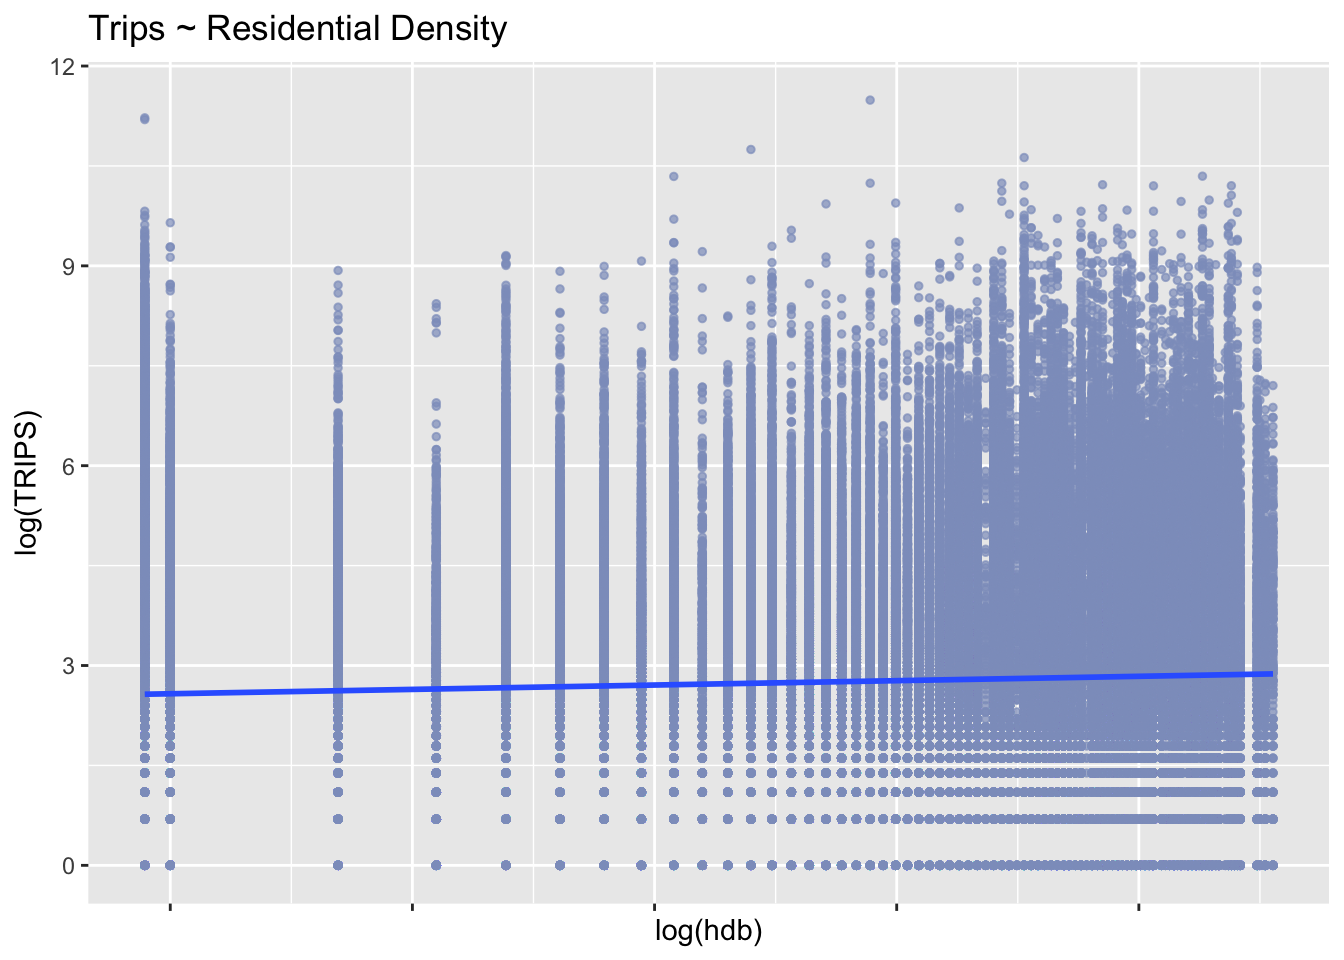
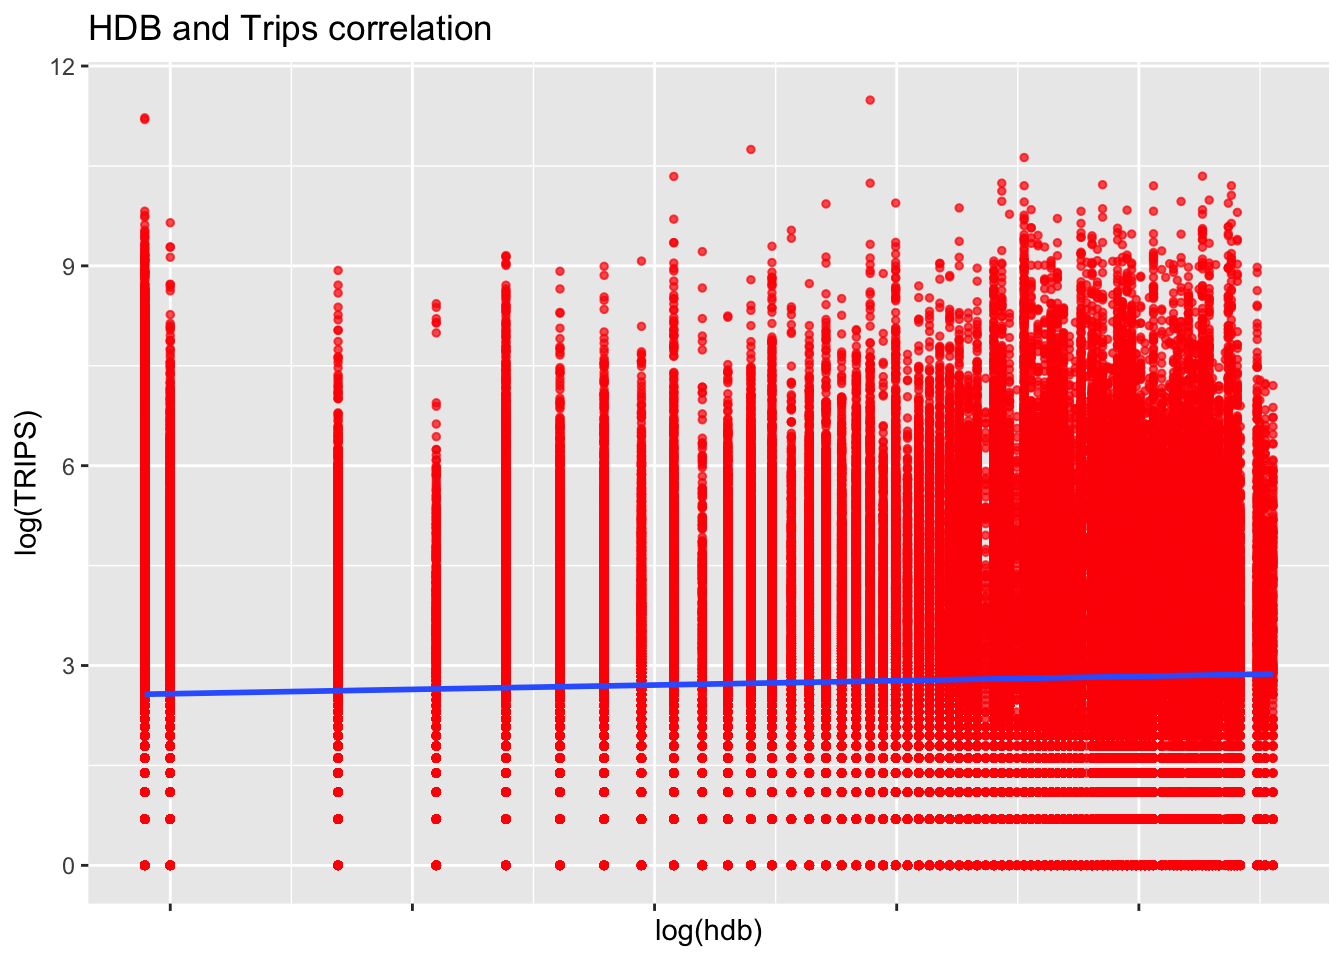
More spatial commits

diff --git a/_site/Project/takehome_ex2_backup.html b/_site/Project/takehome_ex2_backup.html
@@ -268,8 +268,14 @@ pre > code.sourceCode > span > a:first-child::before { text-decoration: underlin
   <li><a href="#flow-by-destination" id="toc-flow-by-destination" class="nav-link" data-scroll-target="#flow-by-destination">Flow by Destination</a></li>
   <li><a href="#replacing-0-values" id="toc-replacing-0-values" class="nav-link" data-scroll-target="#replacing-0-values">Replacing 0 values</a></li>
   <li><a href="#visualising-correlation-between-propulsive-factors-and-trips" id="toc-visualising-correlation-between-propulsive-factors-and-trips" class="nav-link" data-scroll-target="#visualising-correlation-between-propulsive-factors-and-trips">Visualising correlation between propulsive factors and trips</a></li>
-  <li><a href="#visualising-correlation-between-propulsive-factors-and-trips-1" id="toc-visualising-correlation-between-propulsive-factors-and-trips-1" class="nav-link" data-scroll-target="#visualising-correlation-between-propulsive-factors-and-trips-1">Visualising correlation between propulsive factors and trips</a></li>
   </ul></li>
+  <li><a href="#hdb-and-trips-correlation" id="toc-hdb-and-trips-correlation" class="nav-link" data-scroll-target="#hdb-and-trips-correlation">HDB and Trips Correlation</a></li>
+  <li><a href="#mrt-and-trips-correlation" id="toc-mrt-and-trips-correlation" class="nav-link" data-scroll-target="#mrt-and-trips-correlation">MRT and Trips Correlation</a>
+  <ul class="collapse">
+  <li><a href="#visualising-correlation-between-attractive-factors-and-trips" id="toc-visualising-correlation-between-attractive-factors-and-trips" class="nav-link" data-scroll-target="#visualising-correlation-between-attractive-factors-and-trips">Visualising correlation between attractive factors and trips</a></li>
+  </ul></li>
+  <li><a href="#financial-services-and-trips-correlation" id="toc-financial-services-and-trips-correlation" class="nav-link" data-scroll-target="#financial-services-and-trips-correlation">Financial Services and Trips Correlation</a></li>
+  <li><a href="#schools-and-trips-correlation" id="toc-schools-and-trips-correlation" class="nav-link" data-scroll-target="#schools-and-trips-correlation">Schools and Trips Correlation</a></li>
   </ul></li>
   </ul>
 </nav>
@@ -1272,10 +1278,11 @@ Projected CRS: SVY21 / Singapore TM</code></pre>
 <span id="cb100-9"><a href="#cb100-9" aria-hidden="true" tabindex="-1"></a>  <span class="fu">rename</span>(</span>
 <span id="cb100-10"><a href="#cb100-10" aria-hidden="true" tabindex="-1"></a>    <span class="at">ori_mrt_exit =</span> mrt_exit_count,</span>
 <span id="cb100-11"><a href="#cb100-11" aria-hidden="true" tabindex="-1"></a>    <span class="at">ori_fnb =</span> fnb,</span>
-<span id="cb100-12"><a href="#cb100-12" aria-hidden="true" tabindex="-1"></a>    <span class="at">ori_hdb =</span> hdb</span>
-<span id="cb100-13"><a href="#cb100-13" aria-hidden="true" tabindex="-1"></a>  ) <span class="sc">%&gt;%</span></span>
-<span id="cb100-14"><a href="#cb100-14" aria-hidden="true" tabindex="-1"></a>  <span class="fu">select</span>(</span>
-<span id="cb100-15"><a href="#cb100-15" aria-hidden="true" tabindex="-1"></a>    <span class="sc">-</span><span class="fu">c</span>(fs,biz,sch))</span></code><button title="Copy to Clipboard" class="code-copy-button"><i class="bi"></i></button></pre></div>
+<span id="cb100-12"><a href="#cb100-12" aria-hidden="true" tabindex="-1"></a>    <span class="at">ori_hdb =</span> hdb,</span>
+<span id="cb100-13"><a href="#cb100-13" aria-hidden="true" tabindex="-1"></a>    </span>
+<span id="cb100-14"><a href="#cb100-14" aria-hidden="true" tabindex="-1"></a>  ) <span class="sc">%&gt;%</span></span>
+<span id="cb100-15"><a href="#cb100-15" aria-hidden="true" tabindex="-1"></a>  <span class="fu">select</span>(</span>
+<span id="cb100-16"><a href="#cb100-16" aria-hidden="true" tabindex="-1"></a>    <span class="sc">-</span><span class="fu">c</span>(fs,biz,sch))</span></code><button title="Copy to Clipboard" class="code-copy-button"><i class="bi"></i></button></pre></div>
 </div>
 <div class="cell">
 <div class="sourceCode cell-code" id="cb101"><pre class="sourceCode r code-with-copy"><code class="sourceCode r"><span id="cb101-1"><a href="#cb101-1" aria-hidden="true" tabindex="-1"></a>wdmp <span class="ot">&lt;-</span> wdmp <span class="sc">%&gt;%</span></span>
@@ -1296,7 +1303,7 @@ Projected CRS: SVY21 / Singapore TM</code></pre>
 <span id="cb102-5"><a href="#cb102-5" aria-hidden="true" tabindex="-1"></a>  <span class="fu">rename</span>(</span>
 <span id="cb102-6"><a href="#cb102-6" aria-hidden="true" tabindex="-1"></a>    <span class="at">dest_fs =</span> fs,</span>
 <span id="cb102-7"><a href="#cb102-7" aria-hidden="true" tabindex="-1"></a>    <span class="at">dest_biz =</span> biz,</span>
-<span id="cb102-8"><a href="#cb102-8" aria-hidden="true" tabindex="-1"></a>    <span class="at">dest_sch =</span> sch</span>
+<span id="cb102-8"><a href="#cb102-8" aria-hidden="true" tabindex="-1"></a>    <span class="at">dest_sch =</span> sch,</span>
 <span id="cb102-9"><a href="#cb102-9" aria-hidden="true" tabindex="-1"></a>  ) <span class="sc">%&gt;%</span></span>
 <span id="cb102-10"><a href="#cb102-10" aria-hidden="true" tabindex="-1"></a>  <span class="fu">select</span>(</span>
 <span id="cb102-11"><a href="#cb102-11" aria-hidden="true" tabindex="-1"></a>    <span class="sc">-</span><span class="fu">c</span>(mrt_exit_count,ori_fnb,ori_hdb)</span>
@@ -1366,14 +1373,13 @@ Projected CRS: SVY21 / Singapore TM</code></pre>
 <section id="replacing-0-values" class="level3">
 <h3 class="anchored" data-anchor-id="replacing-0-values">Replacing 0 values</h3>
 <div class="cell">
-<div class="sourceCode cell-code" id="cb104"><pre class="sourceCode r code-with-copy"><code class="sourceCode r"><span id="cb104-1"><a href="#cb104-1" aria-hidden="true" tabindex="-1"></a><span class="co"># save columns as a vector</span></span>
-<span id="cb104-2"><a href="#cb104-2" aria-hidden="true" tabindex="-1"></a>update_cols <span class="ot">&lt;-</span> <span class="fu">c</span>( <span class="st">"dest_fs"</span>, <span class="st">"hdb"</span>, <span class="st">"dest_sch"</span>, <span class="st">"ori_mrt_exit"</span>)</span>
-<span id="cb104-3"><a href="#cb104-3" aria-hidden="true" tabindex="-1"></a></span>
-<span id="cb104-4"><a href="#cb104-4" aria-hidden="true" tabindex="-1"></a><span class="co"># update all 0 values across columns</span></span>
-<span id="cb104-5"><a href="#cb104-5" aria-hidden="true" tabindex="-1"></a>attr_flow <span class="ot">&lt;-</span> attr_flow <span class="sc">%&gt;%</span></span>
-<span id="cb104-6"><a href="#cb104-6" aria-hidden="true" tabindex="-1"></a>  <span class="fu">mutate</span>(<span class="fu">across</span>(<span class="fu">all_of</span>(update_cols), <span class="sc">~</span> <span class="fu">ifelse</span>(. <span class="sc">==</span> <span class="dv">0</span>, <span class="fl">0.9</span>, .)))</span>
-<span id="cb104-7"><a href="#cb104-7" aria-hidden="true" tabindex="-1"></a></span>
-<span id="cb104-8"><a href="#cb104-8" aria-hidden="true" tabindex="-1"></a><span class="fu">summary</span>(attr_flow)</span></code><button title="Copy to Clipboard" class="code-copy-button"><i class="bi"></i></button></pre></div>
+<div class="sourceCode cell-code" id="cb104"><pre class="sourceCode r code-with-copy"><code class="sourceCode r"><span id="cb104-1"><a href="#cb104-1" aria-hidden="true" tabindex="-1"></a>update_cols <span class="ot">&lt;-</span> <span class="fu">c</span>( <span class="st">"dest_fs"</span>, <span class="st">"hdb"</span>, <span class="st">"dest_sch"</span>, <span class="st">"ori_mrt_exit"</span>)</span>
+<span id="cb104-2"><a href="#cb104-2" aria-hidden="true" tabindex="-1"></a></span>
+<span id="cb104-3"><a href="#cb104-3" aria-hidden="true" tabindex="-1"></a><span class="co"># changing all 0 values to 0.99</span></span>
+<span id="cb104-4"><a href="#cb104-4" aria-hidden="true" tabindex="-1"></a>attr_flow <span class="ot">&lt;-</span> attr_flow <span class="sc">%&gt;%</span></span>
+<span id="cb104-5"><a href="#cb104-5" aria-hidden="true" tabindex="-1"></a>  <span class="fu">mutate</span>(<span class="fu">across</span>(<span class="fu">all_of</span>(update_cols), <span class="sc">~</span> <span class="fu">ifelse</span>(. <span class="sc">==</span> <span class="dv">0</span>, <span class="fl">0.9</span>, .)))</span>
+<span id="cb104-6"><a href="#cb104-6" aria-hidden="true" tabindex="-1"></a></span>
+<span id="cb104-7"><a href="#cb104-7" aria-hidden="true" tabindex="-1"></a><span class="fu">summary</span>(attr_flow)</span></code><button title="Copy to Clipboard" class="code-copy-button"><i class="bi"></i></button></pre></div>
 <div class="cell-output cell-output-stdout">
 <pre><code>    ori_grid          dest_grid           distance      ori_mrt_exit   
  1990   :    5278   2010   :    5762   Min.   :  100   Min.   : 0.900  
@@ -1436,33 +1442,114 @@ Projected CRS: SVY21 / Singapore TM</code></pre>
 </section>
 <section id="visualising-correlation-between-propulsive-factors-and-trips" class="level3">
 <h3 class="anchored" data-anchor-id="visualising-correlation-between-propulsive-factors-and-trips">Visualising correlation between propulsive factors and trips</h3>
+</section>
+</section>
+<section id="hdb-and-trips-correlation" class="level2">
+<h2 class="anchored" data-anchor-id="hdb-and-trips-correlation">HDB and Trips Correlation</h2>
 <div class="cell">
-<div class="sourceCode cell-code" id="cb106"><pre class="sourceCode r code-with-copy"><code class="sourceCode r"><span id="cb106-1"><a href="#cb106-1" aria-hidden="true" tabindex="-1"></a>p_res <span class="ot">&lt;-</span> attr_flow <span class="sc">%&gt;%</span></span>
+<div class="sourceCode cell-code" id="cb106"><pre class="sourceCode r code-with-copy"><code class="sourceCode r"><span id="cb106-1"><a href="#cb106-1" aria-hidden="true" tabindex="-1"></a>p_hdb <span class="ot">&lt;-</span> attr_flow <span class="sc">%&gt;%</span></span>
 <span id="cb106-2"><a href="#cb106-2" aria-hidden="true" tabindex="-1"></a>      <span class="fu">st_drop_geometry</span>() <span class="sc">%&gt;%</span></span>
 <span id="cb106-3"><a href="#cb106-3" aria-hidden="true" tabindex="-1"></a>      <span class="fu">ggplot</span>(</span>
 <span id="cb106-4"><a href="#cb106-4" aria-hidden="true" tabindex="-1"></a>        <span class="fu">aes</span>(<span class="at">x =</span> <span class="fu">log</span>(hdb),</span>
 <span id="cb106-5"><a href="#cb106-5" aria-hidden="true" tabindex="-1"></a>            <span class="at">y =</span> <span class="fu">log</span>(TRIPS))</span>
 <span id="cb106-6"><a href="#cb106-6" aria-hidden="true" tabindex="-1"></a>      ) <span class="sc">+</span></span>
 <span id="cb106-7"><a href="#cb106-7" aria-hidden="true" tabindex="-1"></a>      <span class="fu">geom_point</span>(</span>
-<span id="cb106-8"><a href="#cb106-8" aria-hidden="true" tabindex="-1"></a>        <span class="at">color =</span> <span class="st">"#8D9EC6"</span>,</span>
+<span id="cb106-8"><a href="#cb106-8" aria-hidden="true" tabindex="-1"></a>        <span class="at">color =</span> <span class="st">"red"</span>,</span>
 <span id="cb106-9"><a href="#cb106-9" aria-hidden="true" tabindex="-1"></a>        <span class="at">size =</span> <span class="dv">1</span>,</span>
 <span id="cb106-10"><a href="#cb106-10" aria-hidden="true" tabindex="-1"></a>        <span class="at">alpha =</span> .<span class="dv">7</span></span>
 <span id="cb106-11"><a href="#cb106-11" aria-hidden="true" tabindex="-1"></a>      ) <span class="sc">+</span></span>
 <span id="cb106-12"><a href="#cb106-12" aria-hidden="true" tabindex="-1"></a>      <span class="fu">geom_smooth</span>(<span class="at">method =</span> lm) <span class="sc">+</span></span>
 <span id="cb106-13"><a href="#cb106-13" aria-hidden="true" tabindex="-1"></a>      <span class="fu">theme</span>(<span class="at">axis.text.x =</span> <span class="fu">element_blank</span>()) <span class="sc">+</span></span>
-<span id="cb106-14"><a href="#cb106-14" aria-hidden="true" tabindex="-1"></a>      <span class="fu">ggtitle</span>(<span class="st">"Trips ~ Residential Density"</span>)</span>
+<span id="cb106-14"><a href="#cb106-14" aria-hidden="true" tabindex="-1"></a>      <span class="fu">ggtitle</span>(<span class="st">"HDB and Trips correlation "</span>)</span>
 <span id="cb106-15"><a href="#cb106-15" aria-hidden="true" tabindex="-1"></a></span>
-<span id="cb106-16"><a href="#cb106-16" aria-hidden="true" tabindex="-1"></a>p_res</span></code><button title="Copy to Clipboard" class="code-copy-button"><i class="bi"></i></button></pre></div>
+<span id="cb106-16"><a href="#cb106-16" aria-hidden="true" tabindex="-1"></a>p_hdb</span></code><button title="Copy to Clipboard" class="code-copy-button"><i class="bi"></i></button></pre></div>
 <div class="cell-output-display">
 <p><img src="takehome_ex2_backup_files/figure-html/unnamed-chunk-59-1.png" class="img-fluid" width="672"></p>
 </div>
 </div>
 </section>
-<section id="visualising-correlation-between-propulsive-factors-and-trips-1" class="level3">
-<h3 class="anchored" data-anchor-id="visualising-correlation-between-propulsive-factors-and-trips-1">Visualising correlation between propulsive factors and trips</h3>
-
-
+<section id="mrt-and-trips-correlation" class="level2">
+<h2 class="anchored" data-anchor-id="mrt-and-trips-correlation">MRT and Trips Correlation</h2>
+<div class="cell">
+<div class="sourceCode cell-code" id="cb107"><pre class="sourceCode r code-with-copy"><code class="sourceCode r"><span id="cb107-1"><a href="#cb107-1" aria-hidden="true" tabindex="-1"></a>p_mrt <span class="ot">&lt;-</span> attr_flow <span class="sc">%&gt;%</span></span>
+<span id="cb107-2"><a href="#cb107-2" aria-hidden="true" tabindex="-1"></a>      <span class="fu">st_drop_geometry</span>() <span class="sc">%&gt;%</span></span>
+<span id="cb107-3"><a href="#cb107-3" aria-hidden="true" tabindex="-1"></a>      <span class="fu">ggplot</span>(</span>
+<span id="cb107-4"><a href="#cb107-4" aria-hidden="true" tabindex="-1"></a>        <span class="fu">aes</span>(<span class="at">x =</span> <span class="fu">log</span>(ori_mrt_exit),</span>
+<span id="cb107-5"><a href="#cb107-5" aria-hidden="true" tabindex="-1"></a>            <span class="at">y =</span> <span class="fu">log</span>(TRIPS))</span>
+<span id="cb107-6"><a href="#cb107-6" aria-hidden="true" tabindex="-1"></a>      ) <span class="sc">+</span></span>
+<span id="cb107-7"><a href="#cb107-7" aria-hidden="true" tabindex="-1"></a>      <span class="fu">geom_point</span>(</span>
+<span id="cb107-8"><a href="#cb107-8" aria-hidden="true" tabindex="-1"></a>        <span class="at">color =</span> <span class="st">"green"</span>,</span>
+<span id="cb107-9"><a href="#cb107-9" aria-hidden="true" tabindex="-1"></a>        <span class="at">size =</span> <span class="dv">1</span>,</span>
+<span id="cb107-10"><a href="#cb107-10" aria-hidden="true" tabindex="-1"></a>        <span class="at">alpha =</span> .<span class="dv">7</span></span>
+<span id="cb107-11"><a href="#cb107-11" aria-hidden="true" tabindex="-1"></a>      ) <span class="sc">+</span></span>
+<span id="cb107-12"><a href="#cb107-12" aria-hidden="true" tabindex="-1"></a>      <span class="fu">geom_smooth</span>(<span class="at">method =</span> lm) <span class="sc">+</span></span>
+<span id="cb107-13"><a href="#cb107-13" aria-hidden="true" tabindex="-1"></a>      <span class="fu">theme</span>(<span class="at">axis.text.x =</span> <span class="fu">element_blank</span>()) <span class="sc">+</span></span>
+<span id="cb107-14"><a href="#cb107-14" aria-hidden="true" tabindex="-1"></a>      <span class="fu">ggtitle</span>(<span class="st">"MRT exit and Trips correlation "</span>)</span>
+<span id="cb107-15"><a href="#cb107-15" aria-hidden="true" tabindex="-1"></a></span>
+<span id="cb107-16"><a href="#cb107-16" aria-hidden="true" tabindex="-1"></a>p_mrt</span></code><button title="Copy to Clipboard" class="code-copy-button"><i class="bi"></i></button></pre></div>
+<div class="cell-output-display">
+<p><img src="takehome_ex2_backup_files/figure-html/unnamed-chunk-60-1.png" class="img-fluid" width="672"></p>
+</div>
+</div>
+<section id="visualising-correlation-between-attractive-factors-and-trips" class="level3">
+<h3 class="anchored" data-anchor-id="visualising-correlation-between-attractive-factors-and-trips">Visualising correlation between attractive factors and trips</h3>
 </section>
+</section>
+<section id="financial-services-and-trips-correlation" class="level2">
+<h2 class="anchored" data-anchor-id="financial-services-and-trips-correlation">Financial Services and Trips Correlation</h2>
+<div class="cell">
+<div class="sourceCode cell-code" id="cb108"><pre class="sourceCode r code-with-copy"><code class="sourceCode r"><span id="cb108-1"><a href="#cb108-1" aria-hidden="true" tabindex="-1"></a>p_fs <span class="ot">&lt;-</span> attr_flow <span class="sc">%&gt;%</span></span>
+<span id="cb108-2"><a href="#cb108-2" aria-hidden="true" tabindex="-1"></a>      <span class="fu">st_drop_geometry</span>() <span class="sc">%&gt;%</span></span>
+<span id="cb108-3"><a href="#cb108-3" aria-hidden="true" tabindex="-1"></a>      <span class="fu">ggplot</span>(</span>
+<span id="cb108-4"><a href="#cb108-4" aria-hidden="true" tabindex="-1"></a>        <span class="fu">aes</span>(<span class="at">x =</span> <span class="fu">log</span>(dest_fs),</span>
+<span id="cb108-5"><a href="#cb108-5" aria-hidden="true" tabindex="-1"></a>            <span class="at">y =</span> <span class="fu">log</span>(TRIPS))</span>
+<span id="cb108-6"><a href="#cb108-6" aria-hidden="true" tabindex="-1"></a>      ) <span class="sc">+</span></span>
+<span id="cb108-7"><a href="#cb108-7" aria-hidden="true" tabindex="-1"></a>      <span class="fu">geom_point</span>(</span>
+<span id="cb108-8"><a href="#cb108-8" aria-hidden="true" tabindex="-1"></a>        <span class="at">color =</span> <span class="st">"blue"</span>,</span>
+<span id="cb108-9"><a href="#cb108-9" aria-hidden="true" tabindex="-1"></a>        <span class="at">size =</span> <span class="dv">1</span>,</span>
+<span id="cb108-10"><a href="#cb108-10" aria-hidden="true" tabindex="-1"></a>        <span class="at">alpha =</span> .<span class="dv">7</span></span>
+<span id="cb108-11"><a href="#cb108-11" aria-hidden="true" tabindex="-1"></a>      ) <span class="sc">+</span></span>
+<span id="cb108-12"><a href="#cb108-12" aria-hidden="true" tabindex="-1"></a>      <span class="fu">geom_smooth</span>(<span class="at">method =</span> lm) <span class="sc">+</span></span>
+<span id="cb108-13"><a href="#cb108-13" aria-hidden="true" tabindex="-1"></a>      <span class="fu">theme</span>(<span class="at">axis.text.x =</span> <span class="fu">element_blank</span>()) <span class="sc">+</span></span>
+<span id="cb108-14"><a href="#cb108-14" aria-hidden="true" tabindex="-1"></a>      <span class="fu">ggtitle</span>(<span class="st">"Financial Services and Trips correlation "</span>)</span>
+<span id="cb108-15"><a href="#cb108-15" aria-hidden="true" tabindex="-1"></a></span>
+<span id="cb108-16"><a href="#cb108-16" aria-hidden="true" tabindex="-1"></a>p_fs</span></code><button title="Copy to Clipboard" class="code-copy-button"><i class="bi"></i></button></pre></div>
+<div class="cell-output-display">
+<p><img src="takehome_ex2_backup_files/figure-html/unnamed-chunk-61-1.png" class="img-fluid" width="672"></p>
+</div>
+</div>
+</section>
+<section id="schools-and-trips-correlation" class="level2">
+<h2 class="anchored" data-anchor-id="schools-and-trips-correlation">Schools and Trips Correlation</h2>
+<div class="cell">
+<div class="sourceCode cell-code" id="cb109"><pre class="sourceCode r code-with-copy"><code class="sourceCode r"><span id="cb109-1"><a href="#cb109-1" aria-hidden="true" tabindex="-1"></a>p_sch <span class="ot">&lt;-</span> attr_flow <span class="sc">%&gt;%</span></span>
+<span id="cb109-2"><a href="#cb109-2" aria-hidden="true" tabindex="-1"></a>      <span class="fu">st_drop_geometry</span>() <span class="sc">%&gt;%</span></span>
+<span id="cb109-3"><a href="#cb109-3" aria-hidden="true" tabindex="-1"></a>      <span class="fu">ggplot</span>(</span>
+<span id="cb109-4"><a href="#cb109-4" aria-hidden="true" tabindex="-1"></a>        <span class="fu">aes</span>(<span class="at">x =</span> <span class="fu">log</span>(dest_sch),</span>
+<span id="cb109-5"><a href="#cb109-5" aria-hidden="true" tabindex="-1"></a>            <span class="at">y =</span> <span class="fu">log</span>(TRIPS))</span>
+<span id="cb109-6"><a href="#cb109-6" aria-hidden="true" tabindex="-1"></a>      ) <span class="sc">+</span></span>
+<span id="cb109-7"><a href="#cb109-7" aria-hidden="true" tabindex="-1"></a>      <span class="fu">geom_point</span>(</span>
+<span id="cb109-8"><a href="#cb109-8" aria-hidden="true" tabindex="-1"></a>        <span class="at">color =</span> <span class="st">"orange"</span>,</span>
+<span id="cb109-9"><a href="#cb109-9" aria-hidden="true" tabindex="-1"></a>        <span class="at">size =</span> <span class="dv">1</span>,</span>
+<span id="cb109-10"><a href="#cb109-10" aria-hidden="true" tabindex="-1"></a>        <span class="at">alpha =</span> .<span class="dv">7</span></span>
+<span id="cb109-11"><a href="#cb109-11" aria-hidden="true" tabindex="-1"></a>      ) <span class="sc">+</span></span>
+<span id="cb109-12"><a href="#cb109-12" aria-hidden="true" tabindex="-1"></a>      <span class="fu">geom_smooth</span>(<span class="at">method =</span> lm) <span class="sc">+</span></span>
+<span id="cb109-13"><a href="#cb109-13" aria-hidden="true" tabindex="-1"></a>      <span class="fu">theme</span>(<span class="at">axis.text.x =</span> <span class="fu">element_blank</span>()) <span class="sc">+</span></span>
+<span id="cb109-14"><a href="#cb109-14" aria-hidden="true" tabindex="-1"></a>      <span class="fu">ggtitle</span>(<span class="st">"Financial Services and Trips correlation "</span>)</span>
+<span id="cb109-15"><a href="#cb109-15" aria-hidden="true" tabindex="-1"></a></span>
+<span id="cb109-16"><a href="#cb109-16" aria-hidden="true" tabindex="-1"></a>p_sch</span></code><button title="Copy to Clipboard" class="code-copy-button"><i class="bi"></i></button></pre></div>
+<div class="cell-output-display">
+<p><img src="takehome_ex2_backup_files/figure-html/unnamed-chunk-62-1.png" class="img-fluid" width="672"></p>
+</div>
+</div>
+<p>The Scatterplots above reveal that there seems to be a positive correlation between:</p>
+<ul>
+<li>Number of schools and number of trips</li>
+<li>Number of financial services and number of trips</li>
+<li>Numbers of HDB houses and number of trips while MRT exits doesnt seem to have a noticeable trend.</li>
+</ul>
+
+
 </section>
 </section>
 
